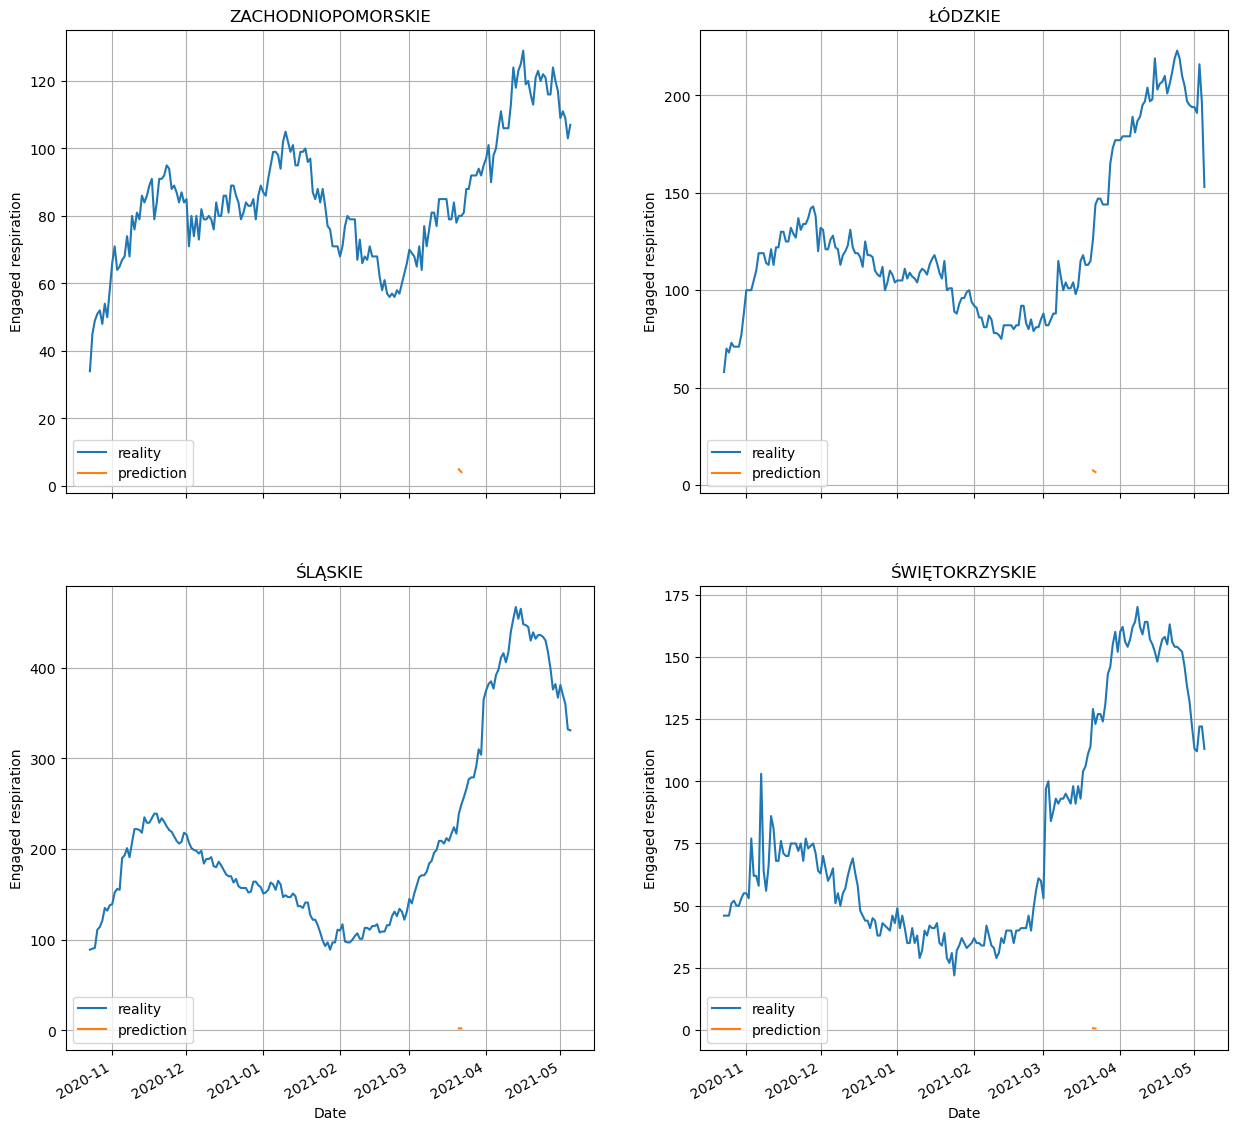
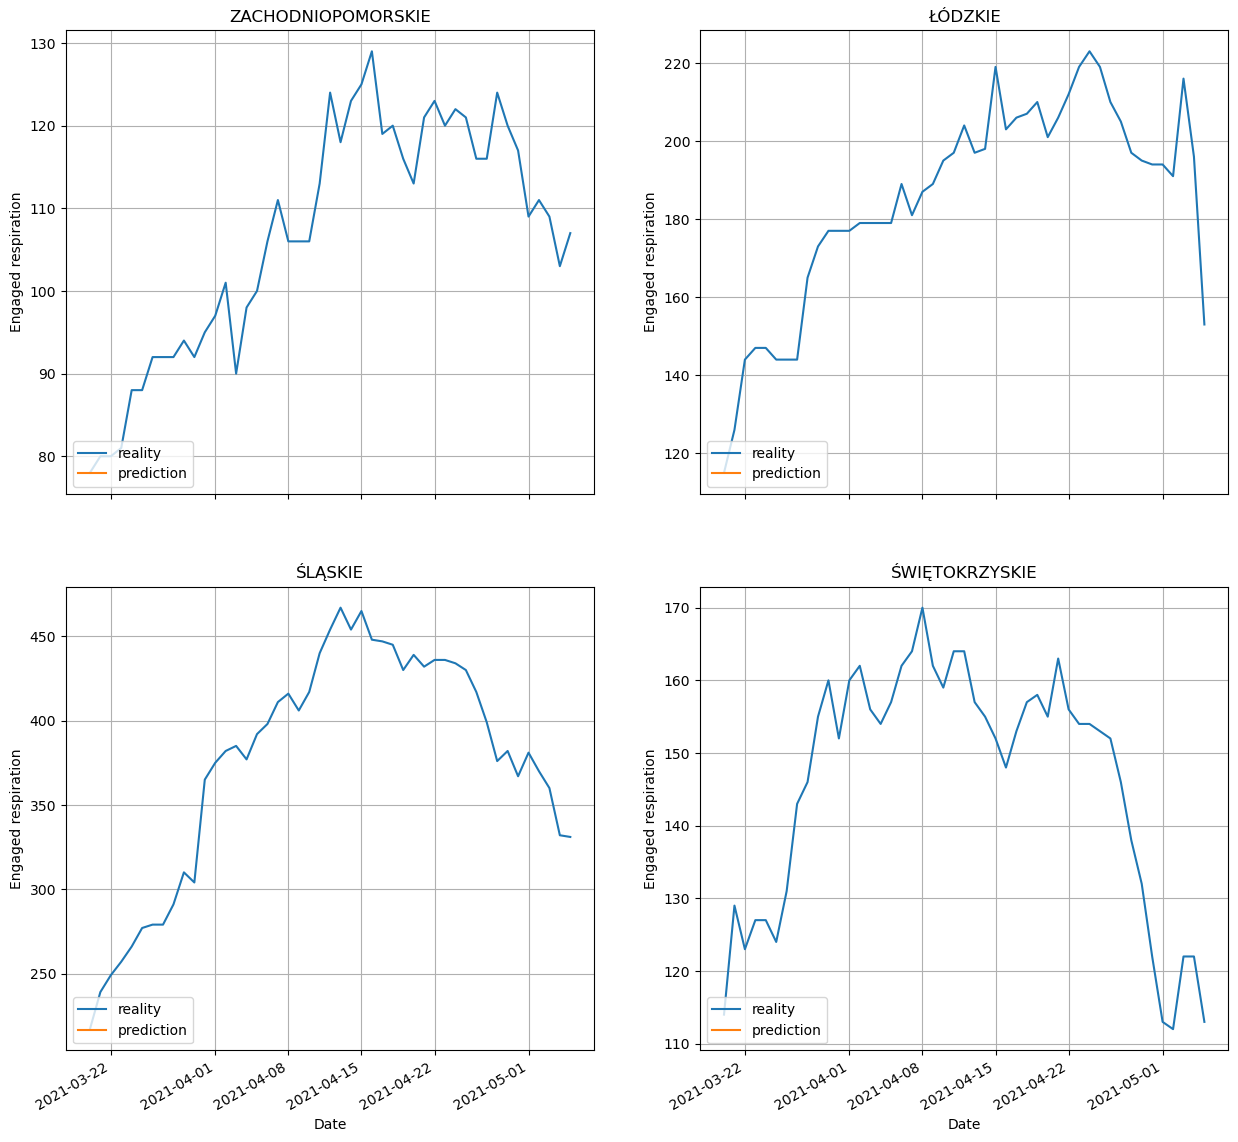
make result ( prediction) for one day correct ( only one donwload  file)

diff --git a/RNN/prediction/make_prediction_n_days_ahead.py b/RNN/prediction/make_prediction_n_days_ahead.py
@@ -18,23 +18,27 @@ def get_test_respiration(data_merge: pd.DataFrame, date):
     return finale_day
 
 
-def make_prediction_n_days_ahead(data_merge:pd.DataFrame, period_of_time=21, last_day_train='2021-03-20',
+def make_prediction_n_days_ahead(data_all_days:pd.DataFrame, period_of_time=21, last_day_train='2021-03-20',
                                  day_ahead=31):
-    train_all = reshape_data_merge_to_get_train_period_of_time_history(data_merge, period_of_time)
+
+    data_to_last_day = get_all_merge_data_from_to(last_day=last_day_train,data=data_all_days)
+
+    train_all = reshape_data_merge_to_get_train_period_of_time_history(data_to_last_day, period_of_time)
 
     test_to_predict = make_date_to_prediction(train_all)
 
-    data_merge_all_days = get_all_merge_data_from_to(last_day=None)
+    # data_all_days = get_all_merge_data_from_to(last_day=None)
     # data_merge_all:pd.DataFrame = data_merge.copy()
-    data_merge_all_days['date'] = data_merge_all_days['date'].astype(str)
+    data_all_days['date'] = data_all_days['date'].astype(str)
     # train_all = standardScaler(train_all,test_to_predict)
-    last_day_train = data_merge_all_days['date'].unique()[-1]
+    last_day_train = str(data_to_last_day['date'].unique()[-1])
     result_all = pd.DataFrame(columns=['date', 'region', 'Engaged_respirator',
                                        'prediction'])
-    result_all_err = pd.DataFrame()
+    print(last_day_train)
+    # result_all_err = pd.DataFrame()
     day = next_day(last_day_train)
     for day_ahead_to_predict in range(1, day_ahead + 1):
-        train, target = get_train_target(data_merge, train_all, period_of_time, day_ahead_to_predict)
+        train, target = get_train_target(data_to_last_day, train_all, period_of_time, day_ahead_to_predict)
         # train,test_to_predict = standardScaler(train,test_to_predict)
 
         make_all(train, target)
@@ -42,7 +46,7 @@ def make_prediction_n_days_ahead(data_merge:pd.DataFrame, period_of_time=21, las
         clear_model()
 
         submission = submission.reset_index()
-        test_ahead: pd.DataFrame = get_test_respiration(data_merge_all_days, day)
+        test_ahead: pd.DataFrame = get_test_respiration(data_all_days, day)
 
         submission.rename(
             columns={submission.columns[0]: test_ahead.columns[0], submission.columns[1]: test_ahead.columns[1],
@@ -62,4 +66,4 @@ def make_prediction_n_days_ahead(data_merge:pd.DataFrame, period_of_time=21, las
     result_all = result_all.sort_values(by=['region', 'date'])
     # result_all_err = result_all_err.sort_values(by=['region', 'date'])
 
-    return result_all, result_all_err
+    return result_all

diff --git a/RNN/prediction/make_prediction_and_plots.py b/RNN/prediction/make_prediction_and_plots.py
@@ -3,7 +3,7 @@ from datetime import datetime, timedelta
 from RNN.prediction.make_prediction_n_days_ahead import make_prediction_n_days_ahead
 from RNN.prediction.plot.plots import plot_prediction_to_poland_from_results, subplot_prediction_for_all_region, \
     subplot_relative_error_for_all_region, plot_averaged_relative_error_for_all_region, plot_relative_error_for_poland
-from prepareData.merge.merge_all_data import get_all_merge_data_from_to
+from prepareData.merge.merge_all_data import get_all_merge_data_from_to, get_all_merge_data
 
 import pandas as pd
 
@@ -23,13 +23,13 @@ import pandas as pd
 
 def make_prediction_and_subplot_for_all_regions(last_day_train='2021-03-20', day_ahead=30, period_of_time=14,
                                                 subplot=True):
-    data_merge_org = get_all_merge_data_from_to(last_day=last_day_train)
+    data_all_days = get_all_merge_data()
 
-    print(last_day_train)
+    # print(last_day_train)
 
-    data_merge_org = data_merge_org[data_merge_org["region"] != 'POLSKA']
+    data_all_days = data_all_days[data_all_days["region"] != 'POLSKA']
 
-    results, results_error = make_prediction_n_days_ahead(data_merge_org, day_ahead=day_ahead,
+    results = make_prediction_n_days_ahead(data_all_days, day_ahead=day_ahead,
                                                           period_of_time=period_of_time,last_day_train= last_day_train)
     if subplot:
         results.to_csv('results/csv/prediction_for_region.csv', index=False)
@@ -40,7 +40,7 @@ def make_prediction_and_subplot_for_all_regions(last_day_train='2021-03-20', day
 
     # results.iloc[:, -1] = results.iloc[:, -1] * 16
     results.loc[results['region'] == 'POLSKA', 'prediction'] = results.loc[results['region'] == 'POLSKA', 'prediction'] * 16
-    plot_prediction_to_poland_from_results([results], ['prediction'], get_all_merge_data_from_to())
+    # plot_prediction_to_poland_from_results([results], ['prediction'], get_all_merge_data_from_to())
 
     return results
 

diff --git a/RNN/main.py b/RNN/main.py
@@ -1,7 +1,7 @@
 from RNN.prediction.make_prediction_and_plots import make_prediction_and_subplot_for_all_regions, \
     make_plots_relative_error_for_regions
-result = make_prediction_and_subplot_for_all_regions(day_ahead=2,period_of_time=7)
-make_plots_relative_error_for_regions(prediction = result)
+result = make_prediction_and_subplot_for_all_regions(day_ahead=1,period_of_time=7)
+# make_plots_relative_error_for_regions(prediction = result)
 
 # %% now
 result = make_prediction_and_subplot_for_all_regions(last_day_train= None,day_ahead=2,period_of_time=7)
